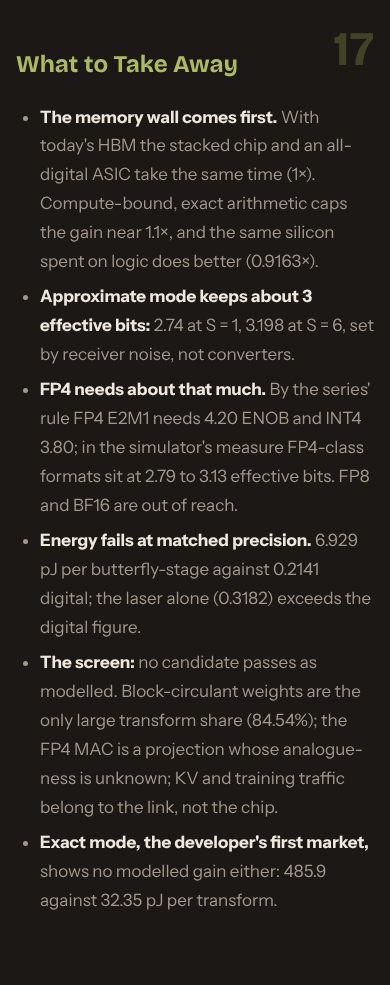
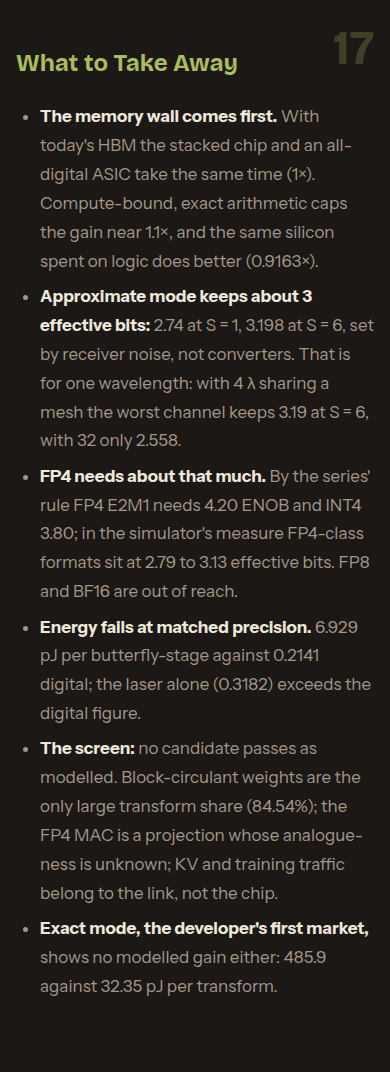
Slides 17 and 18: qualify the precision takeaway for wavelengths sharing a mesh
Slide 17 notes the 2.74/3.198 bits are for one wavelength (3.19 with 4 shared, 2.558 with 32);
slide 18 asks how many wavelengths share each mesh and whether its phases are achromatic or trimmed.

Changed region(s): [[0.0308, 0.0305, 0.9538, 0.9442], [0.8615, 0.0305, 0.9538, 0.0609]]

diff --git a/index.html b/index.html
@@ -1266,7 +1266,7 @@
     <h2>What to Take Away</h2>
     <ul>
         <li><strong>The memory wall comes first.</strong> With today's HBM the stacked chip and an all-digital ASIC take the same time (1&times;). Compute-bound, exact arithmetic caps the gain near 1.1&times;, and the same silicon spent on logic does better (0.9163&times;).</li>
-        <li><strong>Approximate mode keeps about 3 effective bits:</strong> 2.74 at S = 1, 3.198 at S = 6, set by receiver noise, not converters.</li>
+        <li><strong>Approximate mode keeps about 3 effective bits:</strong> 2.74 at S = 1, 3.198 at S = 6, set by receiver noise, not converters. That is for one wavelength: with 4 &lambda; sharing a mesh the worst channel keeps 3.19 at S = 6, with 32 only 2.558.</li>
         <li><strong>FP4 needs about that much.</strong> By the series' rule FP4 E2M1 needs 4.20 ENOB and INT4 3.80; in the simulator's measure FP4-class formats sit at 2.79 to 3.13 effective bits. FP8 and BF16 are out of reach.</li>
         <li><strong>Energy fails at matched precision.</strong> 6.929 pJ per butterfly-stage against 0.2141 digital; the laser alone (0.3182) exceeds the digital figure.</li>
         <li><strong>The screen:</strong> no candidate passes as modelled. Block-circulant weights are the only large transform share (84.54%); the FP4 MAC is a projection whose analogue-ness is unknown; KV and training traffic belong to the link, not the chip.</li>
@@ -1286,6 +1286,7 @@
         <tr><td data-label="Question">Which phase-shifter technology, at what hold power?</td><td data-label="Why it matters">Thermo-optic heaters cost 1.175 pJ per butterfly-stage, more than the whole digital butterfly</td></tr>
         <tr><td data-label="Question">Laser wall-plug efficiency and fan-out per laser?</td><td data-label="Why it matters">The laser alone exceeds a matched digital butterfly at 0.15</td></tr>
         <tr><td data-label="Question">How many stages can approximate mode chain, at what loss per stage?</td><td data-label="Why it matters">At 3 dB per stage, chaining loses bits (2.445 to 1.268)</td></tr>
+        <tr><td data-label="Question">How many wavelengths share each mesh, and are its phases achromatic or trimmed per channel?</td><td data-label="Why it matters">With 32 &lambda; on one mesh the worst channel falls to 2.558 bits at S = 6; a mesh per wavelength costs area and heater power (slide 16)</td></tr>
         <tr><td data-label="Question">Which AI kernels are targeted, and at which number format?</td><td data-label="Why it matters">The screen finds none at FP8 or above</td></tr>
     </table>
     </div>
